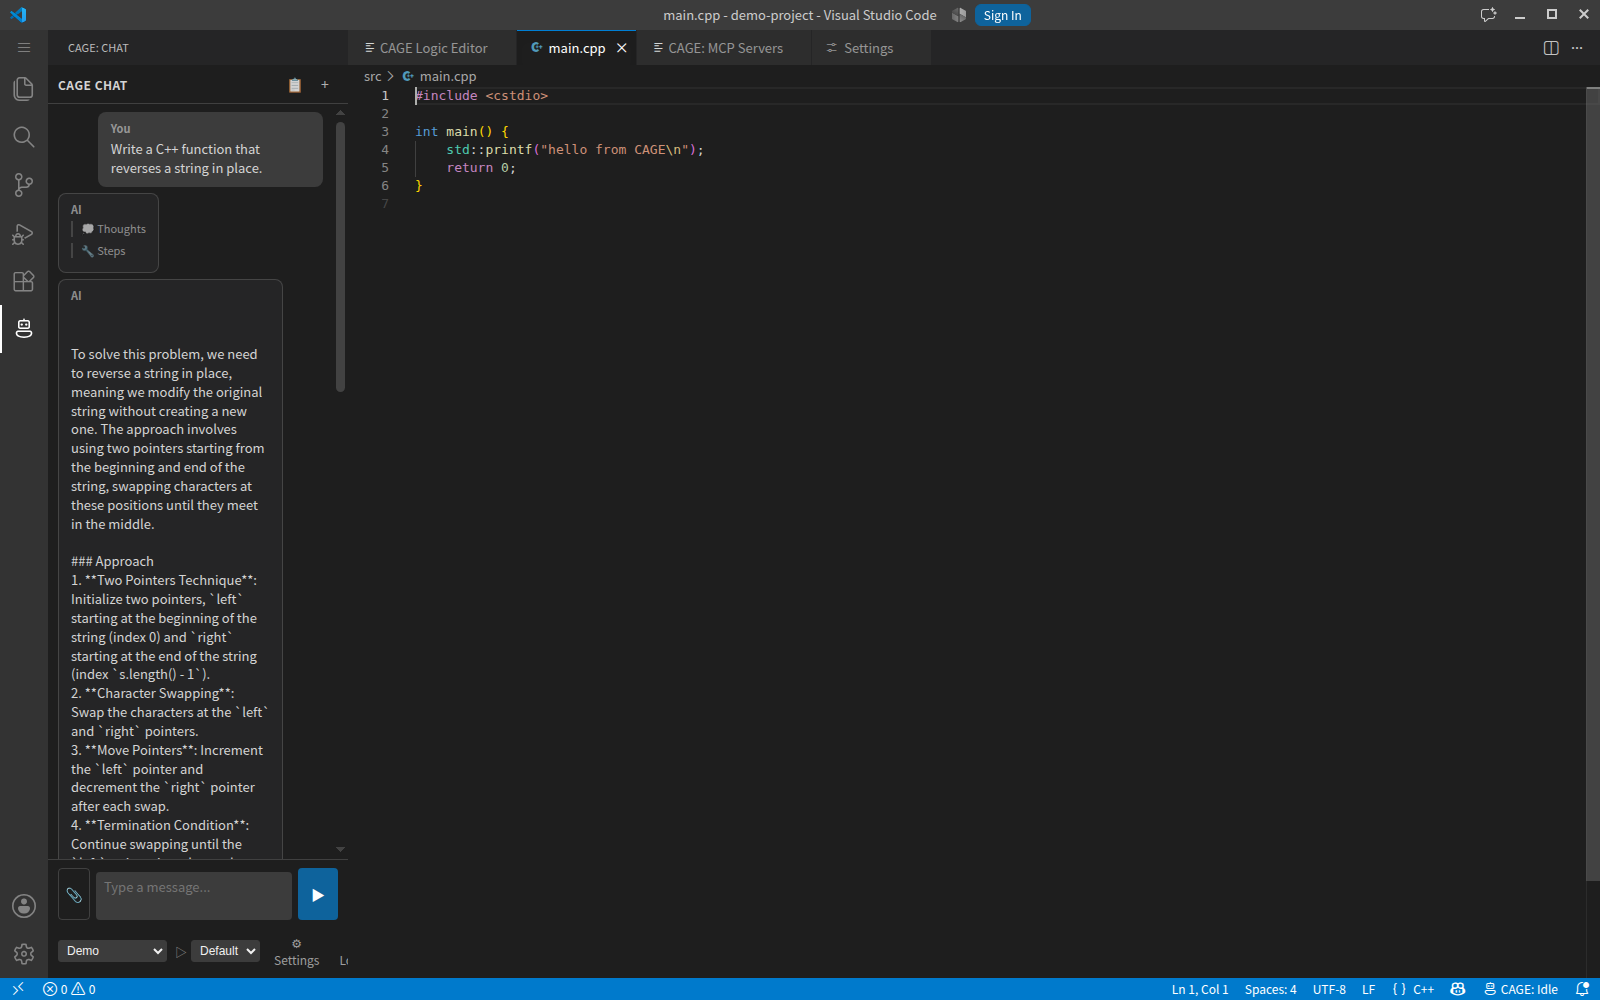
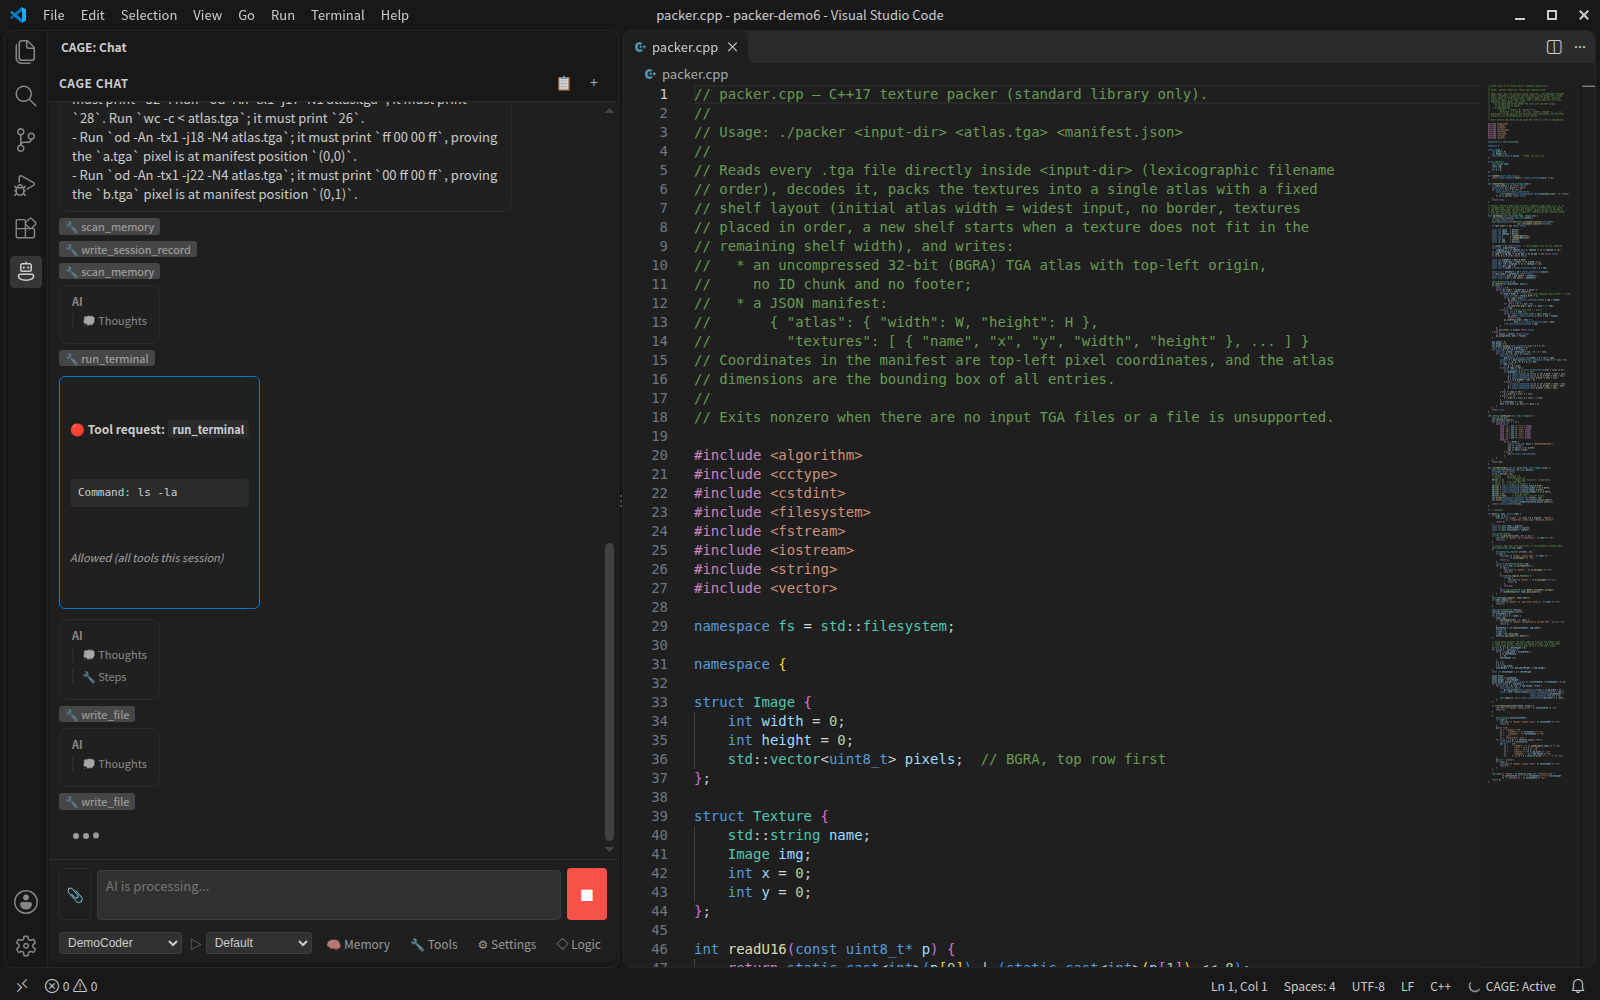
docs: 換掉 hello world 的聊天圖 —— DemoCoder 在本機 Qwen3.8 上規劃並寫出 texture packer
- doc/images/chat-panel.png：舊圖是 08-21 的「反轉字串」＋ hello world main.cpp。新圖是打包好的
  0.2.0（server 10-28 20:29、新 vsix）跑 DemoCoder：計畫的 CHECKS、記憶工具、核准過的 run_terminal、
  兩次 write_file，右邊是 Coder 寫出的 packer.cpp。README 的圖說跟著寫明畫面上是什麼。
- verification-status：Retrieval 改寫成在打包版上實測的內容（舊索引重建、Rebuild Index）；
  多模型 graph 那一列照實寫：Planner 與 Coder 在打包版上跑過，三次都在 Verifier 之前被這台機器的
  驅動鎖打斷，完整迴圈沒有重跑。

diff --git a/doc/verification-status.md b/doc/verification-status.md
@@ -92,8 +92,8 @@ from inside `bin/`, where the native problems disappear.
 | Multi-GPU placement | **Runs** | Topology and NVLink reported; placement across four V100s, a chosen subset, or one card |
 | A hybrid Mamba2 model | **Runs** | **New in 0.2.0.** NVIDIA-Nemotron-3-Ultra-550B-A55B: 12 attention, 48 MoE and 48 Mamba2 layers. Correct answers at temperature 0, on four V100s with the experts in host memory, 2.8 tok/s. Checked on a development build at ik `86e53daf5`; the packs carry `60d899d9b`, which adds a HIP header fix that CUDA builds do not compile and the Qwen3-Coder chat parser — neither touches the computation |
 | Image and 3D | **Runs** | SD 3.5 Large images and TRELLIS.2 meshes (the mesh on a V100), in-process, on development builds during this release. TRELLIS's three borrowed components were found from the model's own `components/` folder with no paths in the config |
-| Retrieval | **Runs** | End to end as in 0.1.2, not re-run for this release. The embedding model itself, `nemotron-3-embed-1b`, is now read in-process from safetensors: on a development build during this release it loaded and its vectors matched the reference scores its model card lists |
-| Multi-model logic graph with a feedback loop | **Runs** | As in 0.1.2 — DemoCoder converged on the first iteration. Not re-run for this release |
+| Retrieval | **Runs** | `nemotron-3-embed-1b`, read in-process from safetensors, matched the reference scores its model card lists. On the packaged build it indexed real projects across four V100s: an index saved by the previous build was rebuilt when its project was opened (17 chunks, among them one per line of `CMakeLists.txt` and the session record, became 7, without `.cage/`), and **CAGE: Rebuild Index** re-embedded a project from scratch. The new chunking itself is covered by tests |
+| Multi-model logic graph with a feedback loop | **Runs** | As in 0.1.2 — DemoCoder converged on the first iteration. On the packaged 0.2.0 build, with Qwen3.8 across four V100s, the planner wrote checks that agree with each other and the coder wrote `packer.cpp` and a `Makefile` — the run behind the chat panel image — but each of the last three attempts was cut off by a driver lock-up on this machine before the verifier step, so the full loop has not been re-run |
 
 ### New in 0.2.0, tested against a scripted model
 

diff --git a/README.md b/README.md
@@ -101,8 +101,10 @@ front end that renders the conversation and executes tool calls locally.
 
 ![The CAGE chat panel in VSCode](doc/images/chat-panel.png)
 
-*The chat panel runs inside VSCode. The selector at the bottom picks which
-logic graph drives the conversation.*
+*The chat panel runs inside VSCode — here the DemoCoder graph has planned a
+texture packer and its coder, Qwen3.8 on four local V100s, has just written
+`packer.cpp`. The selector at the bottom picks which logic graph drives the
+conversation.*
 
 ## Features
 
